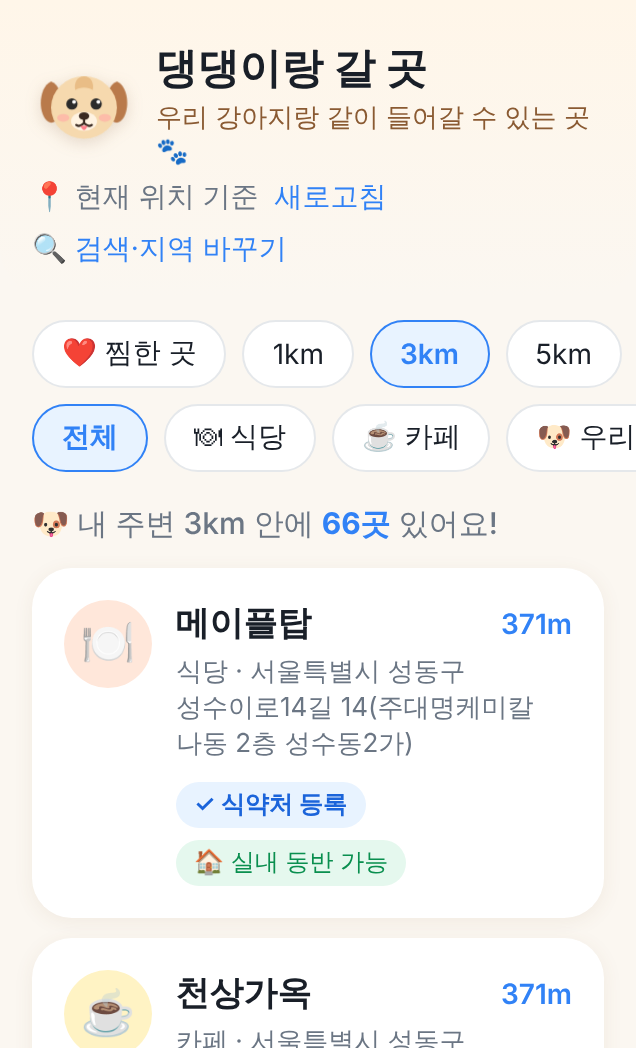
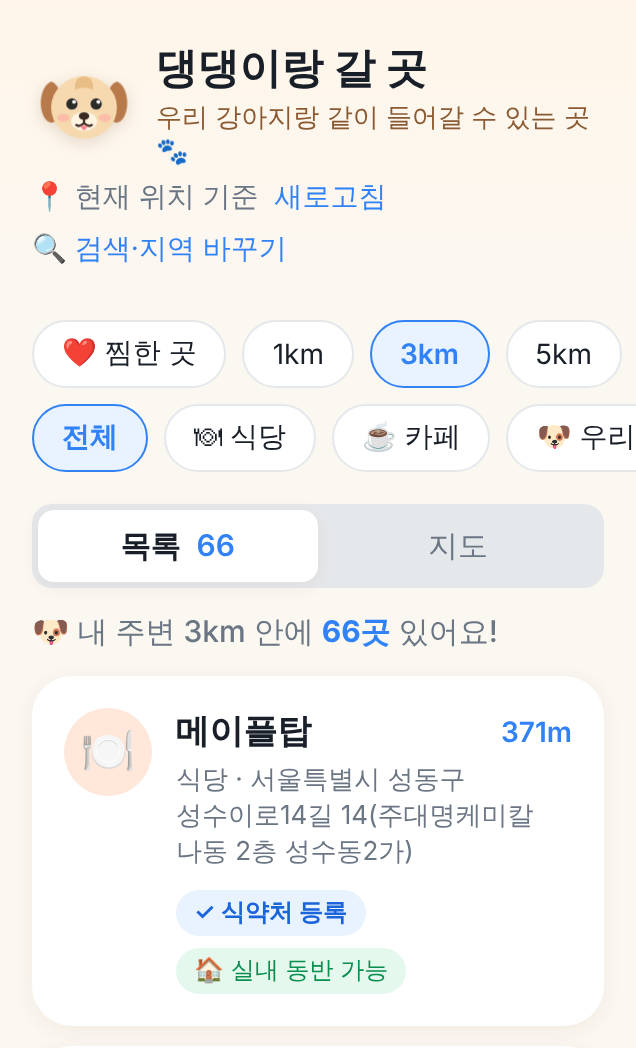
Enable the Kakao map tab
Add the public Kakao Maps JavaScript key (restricted in the Kakao console
to the Apps in Toss production and test domains). Make pins tappable
through overlapping overlay wrappers, stop the map from re-fitting on
every render or selection, color pins by category, time out a stuck SDK
load into a friendly error, and keep the result summary visible with
tabs. Add a map store screenshot.

Claude-Session: https://claude.ai/code/session_01WmdnYUMLqCHJMdmZQbfCN1

Changed region(s): [[0.0299, 0.4885, 0.9261, 1.0], [0.0896, 0.916, 0.239, 1.0], [0.7767, 0.916, 0.8962, 0.9771]]

diff --git a/pet-friendly-finder/src/components/KakaoMap.tsx b/pet-friendly-finder/src/components/KakaoMap.tsx
@@ -23,6 +23,9 @@ interface KakaoMaps {
     content: HTMLElement;
     map?: KakaoMapInstance;
     yAnchor?: number;
+    /** true면 지도가 이 요소의 탭을 가로채지 않아요 */
+    clickable?: boolean;
+    zIndex?: number;
   }) => KakaoMarker;
   event: { addListener(target: unknown, type: string, handler: () => void): void };
 }
@@ -39,6 +42,8 @@ let sdkPromise: Promise<KakaoMaps> | null = null;
 function loadKakaoSdk(appKey: string): Promise<KakaoMaps> {
   if (sdkPromise) return sdkPromise;
   sdkPromise = new Promise((resolve, reject) => {
+    // SDK가 이어서 받는 파일이 막히면 콜백이 영영 안 올 수 있어서, 10초 넘으면 실패로 봐요.
+    const timer = setTimeout(() => reject(new Error('kakao maps load timeout')), 10_000);
     const script = document.createElement('script');
     script.src = `https://dapi.kakao.com/v2/maps/sdk.js?appkey=${encodeURIComponent(appKey)}&autoload=false`;
     script.onload = () => {
@@ -47,7 +52,10 @@ function loadKakaoSdk(appKey: string): Promise<KakaoMaps> {
         reject(new Error('kakao maps not available'));
         return;
       }
-      maps.load(() => resolve(maps));
+      maps.load(() => {
+        clearTimeout(timer);
+        resolve(maps);
+      });
     };
     script.onerror = () => reject(new Error('kakao maps script failed to load'));
     document.head.appendChild(script);
@@ -91,6 +99,14 @@ export function KakaoMap({ center, places, selectedId, onSelect }: Props) {
     };
   }, []);
 
+  // 핀을 누를 때마다 지도가 다시 맞춰지지 않게, 최신 onSelect는 ref로 들고 있어요.
+  const onSelectRef = useRef(onSelect);
+  useEffect(() => {
+    onSelectRef.current = onSelect;
+  });
+  const pinsRef = useRef(new Map<string, HTMLButtonElement>());
+
+  // 장소 목록이나 기준 위치가 바뀔 때만 핀을 다시 그리고 지도를 맞춰요.
   useEffect(() => {
     const ctx = mapRef.current;
     if (status !== 'ready' || !ctx) return;
@@ -105,31 +121,38 @@ export function KakaoMap({ center, places, selectedId, onSelect }: Props) {
     meDot.className = 'map-me';
     overlays.push(new maps.CustomOverlay({ position: me, content: meDot, map }));
 
+    const pins = pinsRef.current;
+    pins.clear();
     for (const p of places) {
       const pos = new maps.LatLng(p.lat, p.lng);
       bounds.extend(pos);
       const pin = document.createElement('button');
       pin.type = 'button';
-      pin.className = `map-pin${p.id === selectedId ? ' is-selected' : ''}`;
-      pin.textContent = p.category === 'cafe' ? '☕' : '🍽';
+      pin.className = `map-pin map-pin-${p.category}`;
+      pin.textContent = p.category === 'cafe' ? '☕' : '🍽';
       pin.title = p.name;
-      pin.onclick = () => onSelect(p.id);
-      overlays.push(new maps.CustomOverlay({ position: pos, content: pin, map, yAnchor: 1 }));
+      pin.setAttribute('aria-label', p.name);
+      pin.onclick = () => onSelectRef.current(p.id);
+      pins.set(p.id, pin);
+      overlays.push(new maps.CustomOverlay({ position: pos, content: pin, map, yAnchor: 0.5, clickable: true }));
     }
 
     if (places.length > 0) map.setBounds(bounds);
     else map.setCenter(me);
 
     return () => overlays.forEach((o) => o.setMap(null));
-  }, [status, center, places, selectedId, onSelect]);
+  }, [status, center, places]);
+
+  // 고른 핀만 강조
+  useEffect(() => {
+    for (const [id, pin] of pinsRef.current) pin.classList.toggle('is-selected', id === selectedId);
+  }, [selectedId, places, status]);
 
   if (status === 'error') {
     return (
       <div className="map-placeholder">
-        <p>🗺 지도를 표시하려면 카카오맵 JavaScript 키가 필요해요.</p>
-        <p className="muted">
-          <code>.env.local</code>에 <code>VITE_KAKAO_MAP_KEY</code>를 넣고, 카카오 개발자 콘솔에 도메인을 등록하세요.
-        </p>
+        <p>🗺 지도를 불러오지 못했어요.</p>
+        <p className="muted">잠시 후 다시 시도하거나 목록 탭에서 찾아보세요.</p>
       </div>
     );
   }

diff --git a/pet-friendly-finder/src/index.css b/pet-friendly-finder/src/index.css
@@ -284,21 +284,32 @@ main {
 }
 
 .map-pin {
+  width: 34px;
+  height: 34px;
+  padding: 0;
   border: 2px solid #fff;
-  background: var(--surface);
-  border-radius: 50% 50% 50% 0;
-  transform: rotate(-45deg);
-  width: 36px;
-  height: 36px;
+  border-radius: 50%;
   display: grid;
   place-items: center;
-  box-shadow: var(--shadow);
-  font-size: 16px;
-  padding: 0;
+  font-size: 17px;
+  box-shadow: 0 2px 6px rgba(122, 84, 46, 0.35);
+  transition: transform 0.12s ease;
+}
+
+.map-pin-cafe {
+  background: #ffd94a;
+}
+
+.map-pin-restaurant {
+  background: #ffb38a;
 }
 
 .map-pin.is-selected {
-  background: var(--primary);
+  transform: scale(1.35);
+  border-color: var(--primary);
+  border-width: 3px;
+  position: relative;
+  z-index: 2;
 }
 
 .footer {
@@ -946,4 +957,15 @@ main {
 .tag-ask {
   background: #f2f4f6;
   color: var(--muted);
+}
+
+/* 카카오맵이 핀마다 감싸는 투명한 상자가 옆 핀의 탭을 가로채지 않게 */
+.map div:has(> .map-pin),
+.map div:has(> .map-me) {
+  pointer-events: none;
+}
+
+.map-pin {
+  pointer-events: auto;
+  cursor: pointer;
 }

diff --git a/pet-friendly-finder/src/App.tsx b/pet-friendly-finder/src/App.tsx
@@ -241,7 +241,7 @@ export default function App() {
           </button>
         </div>
       )}
-      {!MAP_ENABLED && data && location && (
+      {data && location && (
         <p className="result-count">
           {showFavorites ? (
             <>

diff --git a/pet-friendly-finder/store/콘솔-입력정보.md b/pet-friendly-finder/store/콘솔-입력정보.md
@@ -24,7 +24,7 @@
 ```
 반려견과 함께 들어갈 수 있는 식당과 카페를 내 위치 기준으로 가까운 순서대로 보여줘요.
 
-앱을 열고 '내 위치로 찾기'를 누르면 반경 1km·3km·5km 안의 애견동반 가능한 가게가 거리순으로 나와요. 위치를 쓰고 싶지 않다면 '성수동', '애월읍'처럼 동네 이름이나 가게 이름을 검색하거나, 인기 지역을 골라서 둘러볼 수도 있어요.
+앱을 열고 '내 위치로 찾기'를 누르면 반경 1km·3km·5km 안의 애견동반 가능한 가게가 거리순 목록과 지도로 나와요. 지도에서 카페(노랑)와 식당(주황) 핀을 누르면 바로 상세 정보를 볼 수 있어요. 위치를 쓰고 싶지 않다면 '성수동', '애월읍'처럼 동네 이름이나 가게 이름을 검색하거나, 인기 지역을 골라서 둘러볼 수도 있어요.
 
 식당만, 카페만 골라 보거나 '실내 동반' 조건으로 걸러 볼 수 있어요. 우리 아이 크기(소형·중형·대형)를 한 번 정해 두면 들어갈 수 없는 곳은 빼고 보여줘요. 가게를 누르면 동반 범위(실내·테라스·케이지), 입장 가능한 크기, 제한사항을 확인하고 카카오맵이나 네이버 지도 길찾기로 바로 이동할 수 있어요. 영업시간·휴무일·주차 정보와 목줄·매너벨트·예방접종처럼 방문 전에 챙길 것도 한눈에 보여주고, 전화 버튼으로 바로 문의할 수 있어요.
 
@@ -41,7 +41,7 @@
 
 - 카테고리: 생활 또는 여행 쪽에서 "반려동물"에 가장 가까운 항목 선택
 - 앱 로고: `store/logo-600.png` (600×600, 배경색 있음, 모서리 각진 형태)
-- 스크린샷(세로 3장): `store/screenshot-1-start.png`, `store/screenshot-2-list.png`, `store/screenshot-3-detail.png` (636×1048)
+- 스크린샷(세로 4장): `store/screenshot-1-start.png`, `store/screenshot-2-list.png`, `store/screenshot-3-detail.png`, `store/screenshot-4-map.png` (636×1048)
 
 ## 앱 번들
 

diff --git a/pet-friendly-finder/README.md b/pet-friendly-finder/README.md
@@ -39,8 +39,8 @@ npm run dev
 ```
 
 - 토스 앱 안에서는 앱인토스 SDK `Device.getLocation`으로 위치를 받고, 일반 브라우저에서는 브라우저 위치 권한을 써요. 둘 다 안 되면 서울시청 기준으로 보여줘요.
-- 카카오맵 키가 없으면 지도 탭에 안내 문구만 나오고, 목록 기능은 그대로 동작해요.
-- 카카오 개발자 콘솔에서 JavaScript 키의 사이트 도메인에 `http://localhost:5173`과 실제 서비스 도메인을 등록해야 지도가 떠요.
+- 카카오맵 JavaScript 키는 `.env.production`에 들어 있어요(공개용 키, 카카오 콘솔에 등록한 토스 도메인에서만 동작). 키가 없으면 지도 탭이 숨겨지고 목록만 보여요.
+- 카카오 콘솔에 등록된 도메인: `https://pet-friendly-finder.apps.tossmini.com`(실서비스), `https://pet-friendly-finder.private-apps.tossmini.com`(토스앱 테스트). 로컬(localhost)에서는 지도가 뜨지 않아요(필요하면 개발용으로 `http://localhost:5173`을 추가 등록).
 
 ## 식약처 등록 업소 (가장 최신·공식)
 
